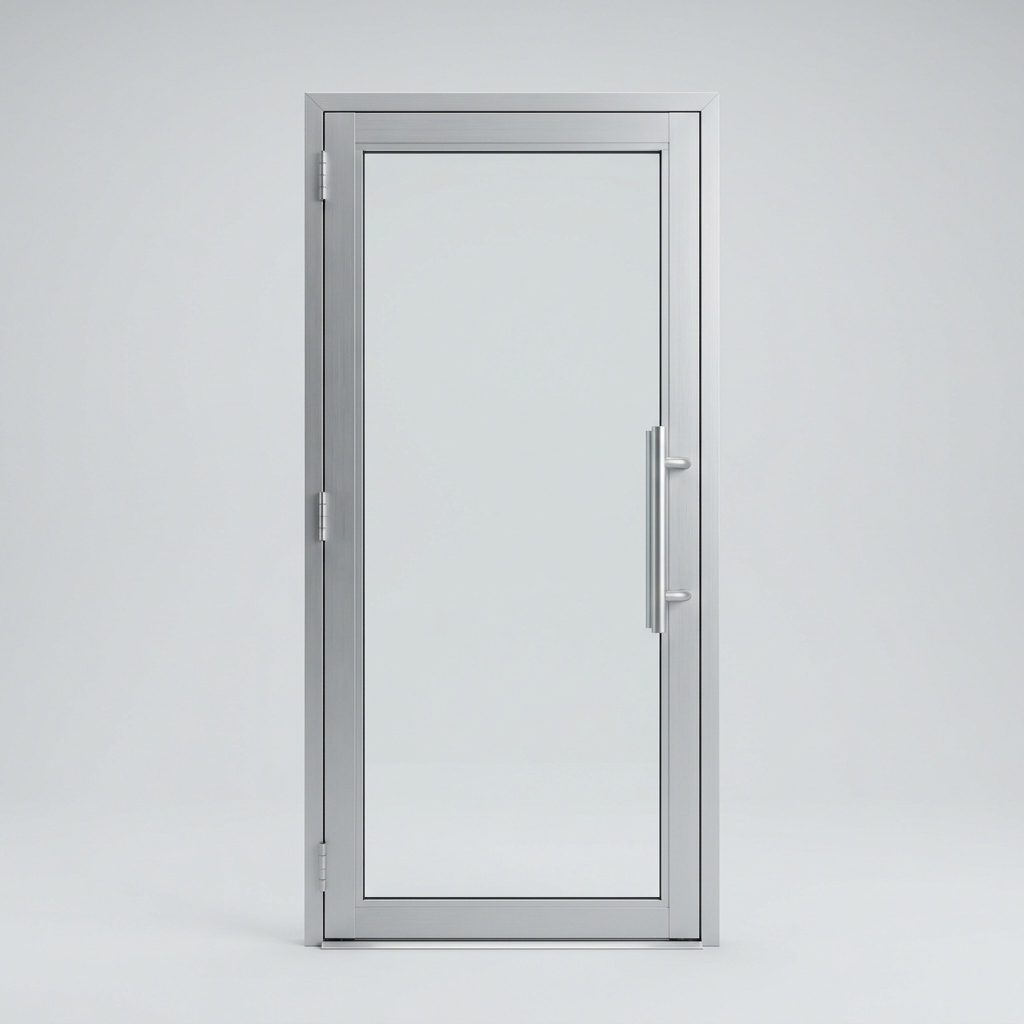
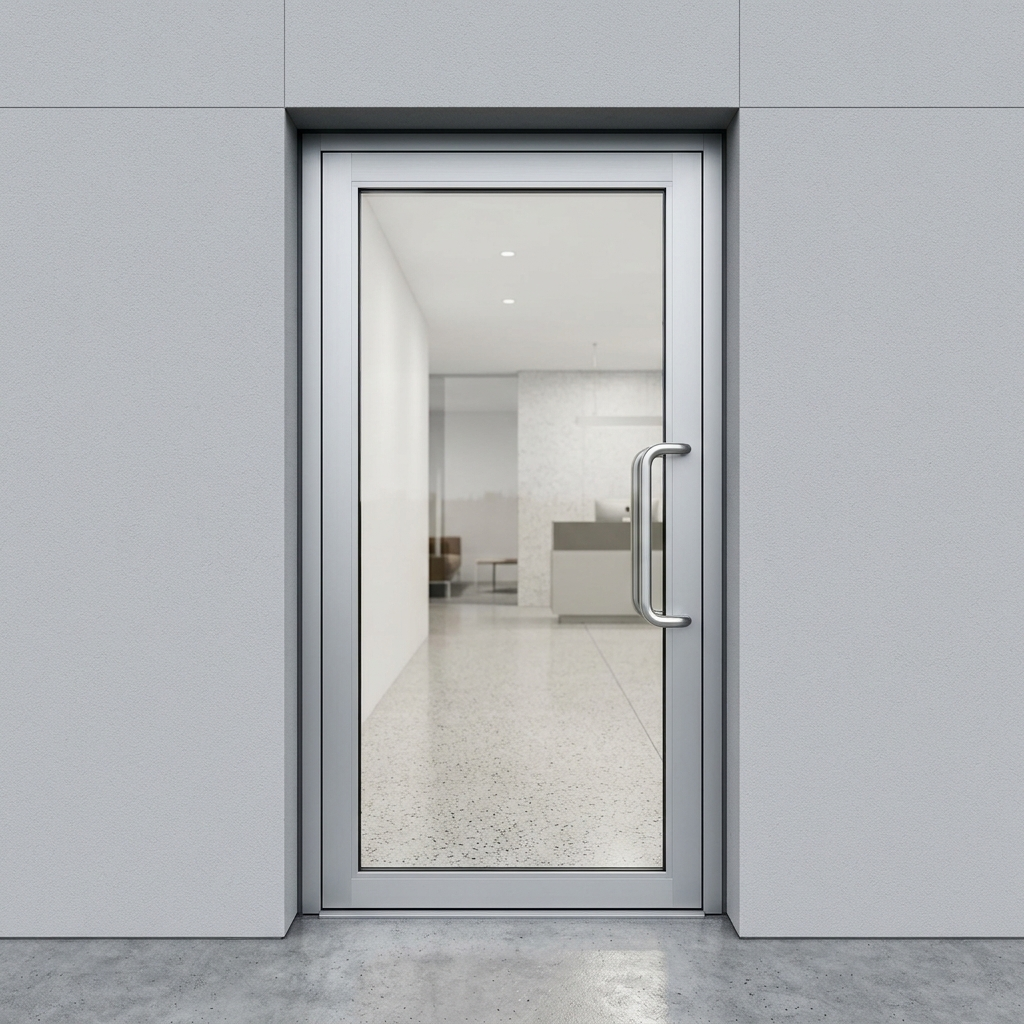
## Offre "Portes commerciales en aluminium" ajoutée au site public
- **Nouvelle page `/portes-aluminium`** : hero, valeur, 5 gammes (AT1000, AT2000, isolées/bris thermique, simples & doubles, sur mesure), avantages, configurations & finis (mains MD/MG/MDR/MGR, vitrage, finis), galerie, note "prête à poser" et CTA. **Soumission sur demande seulement — aucun prix affiché.**
- **Intégrée partout** : lien nav (desktop + mobile), footer, et une nouvelle section mise en avant sur l'accueil → toutes mènent à la nouvelle page / à `/contact`. SEO configuré.
- **Visuels IA** générés ; les 3 images que tu as jugées défectueuses (AT1000, isolée, finis) ont été **régénérées en style photo réaliste**. Hero rendu plus visible.
- **Testé** (testing_agent, iteration_19) : 7 flux PASS sur desktop + mobile, frontend 100 %, images chargées, aucun prix présent.

### Next Action Items
- **Portes dans la galerie**: Ajouter une vraie galerie de tes réalisations de portes en aluminium avec filtres par gamme
- **Formulaire porte dédié**: Ajouter au Contact un court formulaire « projet de porte » (type, dimensions, quantité) pour des demandes plus précises
- **Fiches techniques**: Offrir un PDF téléchargeable par gamme (AT1000/AT2000) que le visiteur peut récupérer après avoir laissé son courriel
- **Mise en avant accueil**: Remonter la section aluminium plus haut sur l'accueil si tu veux en faire ton produit vedette
[…]

diff --git a/frontend/src/pages/PortesAluminium.jsx b/frontend/src/pages/PortesAluminium.jsx
@@ -146,11 +146,11 @@ const PortesAluminium = () => {
                 className="relative bg-[#0c182b] text-white overflow-hidden border-b border-[#1e3457]"
             >
                 <div
-                    className="absolute inset-0 bg-cover bg-center opacity-40"
+                    className="absolute inset-0 bg-cover bg-center opacity-60"
                     style={{ backgroundImage: `url(${A}/alu-hero.png)` }}
                     aria-hidden
                 />
-                <div className="absolute inset-0 bg-gradient-to-b from-[#0c182b]/80 via-[#0c182b]/85 to-[#0c182b]" />
+                <div className="absolute inset-0 bg-gradient-to-b from-[#0c182b]/70 via-[#0c182b]/75 to-[#0c182b]/95" />
                 <div className="absolute inset-0 bg-blueprint-dark pointer-events-none" />
 
                 <div className="container-portech relative py-24 md:py-36">
@@ -260,7 +260,7 @@ const PortesAluminium = () => {
                         {gammes.map((g, idx) => (
                             <article
                                 key={g.num}
-                                data-testid={`alu-gamme-${g.tag.toLowerCase().replace(/[^a-z0-9]+/g, "-")}`}
+                                data-testid={`alu-gamme-${g.tag.toLowerCase().normalize("NFD").replace(/[\u0300-\u036f]/g, "").replace(/[^a-z0-9]+/g, "-")}`}
                                 className="bg-white"
                             >
                                 <div
@@ -273,6 +273,7 @@ const PortesAluminium = () => {
                                             <img
                                                 src={g.img}
                                                 alt={g.title}
+                                                loading="lazy"
                                                 className="w-full h-72 object-cover"
                                             />
                                             <div className="absolute top-4 left-4 tech-stamp bg-[#0c182b] text-white px-3 py-2">
@@ -387,6 +388,7 @@ const PortesAluminium = () => {
                                 <img
                                     src={`${A}/alu-finis.png`}
                                     alt="Échantillons de finis d'aluminium : anodisé clair, bronze, noir mat et blanc"
+                                    loading="lazy"
                                     className="w-full h-80 object-cover"
                                 />
                             </div>
@@ -412,13 +414,15 @@ const PortesAluminium = () => {
                             <img
                                 src={`${A}/alu-gal2.png`}
                                 alt="Portes en aluminium dans un hall de bureau"
+                                loading="lazy"
                                 className="w-full h-full min-h-[280px] object-cover transition-transform duration-500 group-hover:scale-105"
                             />
                         </div>
                         <div className="md:col-span-5 relative overflow-hidden border border-[#dde5f0] group">
                             <img
-                                src={`${A}/alu-surmesure.png`}
-                                alt="Porte en aluminium sur mesure avec latéraux vitrés"
+                                src={`${A}/alu-cta.png`}
+                                alt="Barre antipanique sur une porte en aluminium commerciale"
+                                loading="lazy"
                                 className="w-full h-full min-h-[280px] object-cover transition-transform duration-500 group-hover:scale-105"
                             />
                         </div>

diff --git a/memory/PRD.md b/memory/PRD.md
@@ -658,3 +658,12 @@ User language: **French**.
 - BolPanel: select Creer depuis une facture (pre-remplit destinataire + articles depuis la facture) et select Destinataire depuis la base de clients (parties kind=customer). Charge /admin/invoices.
 - Dessins de plan AT1000/AT2000 assombris (gamma 2.1 + MinFilter); portes doubles (pair) epaissies davantage (MinFilter x2 + contraste). Coupes aussi assombries precedemment.
 - Verifie: rendu PDF (quincaillerie longue desc, plans/coupes fonces) + screenshots UI (BOL prefill, reorder).
+
+## 2026-06 — Site public : offre "Portes commerciales en aluminium"
+- Nouvelle page publique /portes-aluminium (PortesAluminium.jsx) : hero, intro/valeur, 5 gammes (AT1000, AT2000, isolées/bris thermique, simples & doubles, sur mesure), avantages, configurations & finis (mains MD/MG/MDR/MGR, vitrage simple/thermos, finis), galerie, note "prête à poser", CTA soumission.
+- Soumission sur demande uniquement — AUCUN prix affiché. Tous les CTA pointent vers /contact.
+- Route ajoutée dans App.js. Lien nav desktop+mobile (nav-link-aluminium) et footer (footer-link-aluminium).
+- Nouvelle section accueil HomeAluminium.jsx (après HomeShowcase) avec CTA vers /portes-aluminium.
+- Visuels IA (Gemini Nano Banana) dans /app/frontend/public/generated/aluminium/ : alu-hero, alu-at1000, alu-at2000, alu-isolee, alu-double, alu-surmesure, alu-finis, alu-gal1, alu-gal2, alu-cta. 3 images (at1000, isolee, finis) régénérées en style photo réaliste après retour utilisateur sur défauts.
+- SEO: titre/description/canonical sur la nouvelle page.
+- Testé: testing_agent iteration_19 — 7 flux PASS (desktop+mobile), frontend 100%, aucun prix, toutes images 200.
